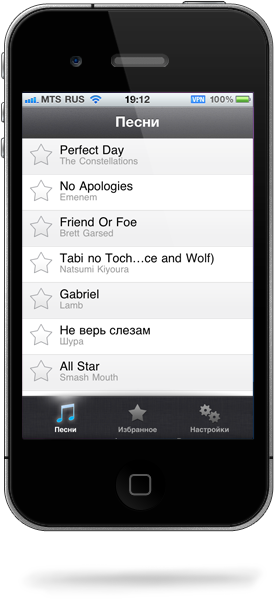
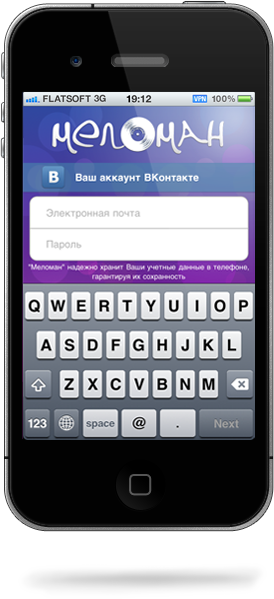
Header Carousel & Screens

diff --git a/public/js/plugins.js b/public/js/plugins.js
@@ -1,5 +1,3 @@
-window.log=function(){log.history=log.history||[];log.history.push(arguments);if(this.console){arguments.callee=arguments.callee.caller;var a=[].slice.call(arguments);(typeof console.log==="object"?log.apply.call(console.log,console,a):console.log.apply(console,a))}};
-(function(b){function c(){}for(var d="assert,count,debug,dir,dirxml,error,exception,group,groupCollapsed,groupEnd,info,log,timeStamp,profile,profileEnd,time,timeEnd,trace,warn".split(","),a;a=d.pop();){b[a]=b[a]||c}})((function(){try
-{console.log();return window.console;}catch(err){return window.console={};}})());
 eval(function(p,a,c,k,e,r){e=function(c){return(c<a?'':e(parseInt(c/a)))+((c=c%a)>35?String.fromCharCode(c+29):c.toString(36))};if(!''.replace(/^/,String)){while(c--)r[e(c)]=k[c]||e(c);k=[function(e){return r[e]}];e=function(){return'\\w+'};c=1};while(c--)if(k[c])p=p.replace(new RegExp('\\b'+e(c)+'\\b','g'),k[c]);return p}('h.i[\'1a\']=h.i[\'z\'];h.O(h.i,{y:\'D\',z:9(x,t,b,c,d){6 h.i[h.i.y](x,t,b,c,d)},17:9(x,t,b,c,d){6 c*(t/=d)*t+b},D:9(x,t,b,c,d){6-c*(t/=d)*(t-2)+b},13:9(x,t,b,c,d){e((t/=d/2)<1)6 c/2*t*t+b;6-c/2*((--t)*(t-2)-1)+b},X:9(x,t,b,c,d){6 c*(t/=d)*t*t+b},U:9(x,t,b,c,d){6 c*((t=t/d-1)*t*t+1)+b},R:9(x,t,b,c,d){e((t/=d/2)<1)6 c/2*t*t*t+b;6 c/2*((t-=2)*t*t+2)+b},N:9(x,t,b,c,d){6 c*(t/=d)*t*t*t+b},M:9(x,t,b,c,d){6-c*((t=t/d-1)*t*t*t-1)+b},L:9(x,t,b,c,d){e((t/=d/2)<1)6 c/2*t*t*t*t+b;6-c/2*((t-=2)*t*t*t-2)+b},K:9(x,t,b,c,d){6 c*(t/=d)*t*t*t*t+b},J:9(x,t,b,c,d){6 c*((t=t/d-1)*t*t*t*t+1)+b},I:9(x,t,b,c,d){e((t/=d/2)<1)6 c/2*t*t*t*t*t+b;6 c/2*((t-=2)*t*t*t*t+2)+b},G:9(x,t,b,c,d){6-c*8.C(t/d*(8.g/2))+c+b},15:9(x,t,b,c,d){6 c*8.n(t/d*(8.g/2))+b},12:9(x,t,b,c,d){6-c/2*(8.C(8.g*t/d)-1)+b},Z:9(x,t,b,c,d){6(t==0)?b:c*8.j(2,10*(t/d-1))+b},Y:9(x,t,b,c,d){6(t==d)?b+c:c*(-8.j(2,-10*t/d)+1)+b},W:9(x,t,b,c,d){e(t==0)6 b;e(t==d)6 b+c;e((t/=d/2)<1)6 c/2*8.j(2,10*(t-1))+b;6 c/2*(-8.j(2,-10*--t)+2)+b},V:9(x,t,b,c,d){6-c*(8.o(1-(t/=d)*t)-1)+b},S:9(x,t,b,c,d){6 c*8.o(1-(t=t/d-1)*t)+b},Q:9(x,t,b,c,d){e((t/=d/2)<1)6-c/2*(8.o(1-t*t)-1)+b;6 c/2*(8.o(1-(t-=2)*t)+1)+b},P:9(x,t,b,c,d){f s=1.l;f p=0;f a=c;e(t==0)6 b;e((t/=d)==1)6 b+c;e(!p)p=d*.3;e(a<8.w(c)){a=c;f s=p/4}m f s=p/(2*8.g)*8.r(c/a);6-(a*8.j(2,10*(t-=1))*8.n((t*d-s)*(2*8.g)/p))+b},H:9(x,t,b,c,d){f s=1.l;f p=0;f a=c;e(t==0)6 b;e((t/=d)==1)6 b+c;e(!p)p=d*.3;e(a<8.w(c)){a=c;f s=p/4}m f s=p/(2*8.g)*8.r(c/a);6 a*8.j(2,-10*t)*8.n((t*d-s)*(2*8.g)/p)+c+b},T:9(x,t,b,c,d){f s=1.l;f p=0;f a=c;e(t==0)6 b;e((t/=d/2)==2)6 b+c;e(!p)p=d*(.3*1.5);e(a<8.w(c)){a=c;f s=p/4}m f s=p/(2*8.g)*8.r(c/a);e(t<1)6-.5*(a*8.j(2,10*(t-=1))*8.n((t*d-s)*(2*8.g)/p))+b;6 a*8.j(2,-10*(t-=1))*8.n((t*d-s)*(2*8.g)/p)*.5+c+b},F:9(x,t,b,c,d,s){e(s==u)s=1.l;6 c*(t/=d)*t*((s+1)*t-s)+b},E:9(x,t,b,c,d,s){e(s==u)s=1.l;6 c*((t=t/d-1)*t*((s+1)*t+s)+1)+b},16:9(x,t,b,c,d,s){e(s==u)s=1.l;e((t/=d/2)<1)6 c/2*(t*t*(((s*=(1.B))+1)*t-s))+b;6 c/2*((t-=2)*t*(((s*=(1.B))+1)*t+s)+2)+b},A:9(x,t,b,c,d){6 c-h.i.v(x,d-t,0,c,d)+b},v:9(x,t,b,c,d){e((t/=d)<(1/2.k)){6 c*(7.q*t*t)+b}m e(t<(2/2.k)){6 c*(7.q*(t-=(1.5/2.k))*t+.k)+b}m e(t<(2.5/2.k)){6 c*(7.q*(t-=(2.14/2.k))*t+.11)+b}m{6 c*(7.q*(t-=(2.18/2.k))*t+.19)+b}},1b:9(x,t,b,c,d){e(t<d/2)6 h.i.A(x,t*2,0,c,d)*.5+b;6 h.i.v(x,t*2-d,0,c,d)*.5+c*.5+b}});',62,74,'||||||return||Math|function|||||if|var|PI|jQuery|easing|pow|75|70158|else|sin|sqrt||5625|asin|||undefined|easeOutBounce|abs||def|swing|easeInBounce|525|cos|easeOutQuad|easeOutBack|easeInBack|easeInSine|easeOutElastic|easeInOutQuint|easeOutQuint|easeInQuint|easeInOutQuart|easeOutQuart|easeInQuart|extend|easeInElastic|easeInOutCirc|easeInOutCubic|easeOutCirc|easeInOutElastic|easeOutCubic|easeInCirc|easeInOutExpo|easeInCubic|easeOutExpo|easeInExpo||9375|easeInOutSine|easeInOutQuad|25|easeOutSine|easeInOutBack|easeInQuad|625|984375|jswing|easeInOutBounce'.split('|'),0,{}))
 ;(function(d){var k=d.scrollTo=function(a,i,e){d(window).scrollTo(a,i,e)};k.defaults={axis:'xy',duration:parseFloat(d.fn.jquery)>=1.3?0:1};k.window=function(a){return d(window)._scrollable()};d.fn._scrollable=function(){return this.map(function(){var a=this,i=!a.nodeName||d.inArray(a.nodeName.toLowerCase(),['iframe','#document','html','body'])!=-1;if(!i)return a;var e=(a.contentWindow||a).document||a.ownerDocument||a;return d.browser.safari||e.compatMode=='BackCompat'?e.body:e.documentElement})};d.fn.scrollTo=function(n,j,b){if(typeof j=='object'){b=j;j=0}if(typeof b=='function')b={onAfter:b};if(n=='max')n=9e9;b=d.extend({},k.defaults,b);j=j||b.speed||b.duration;b.queue=b.queue&&b.axis.length>1;if(b.queue)j/=2;b.offset=p(b.offset);b.over=p(b.over);return this._scrollable().each(function(){var q=this,r=d(q),f=n,s,g={},u=r.is('html,body');switch(typeof f){case'number':case'string':if(/^([+-]=)?\d+(\.\d+)?(px|%)?$/.test(f)){f=p(f);break}f=d(f,this);case'object':if(f.is||f.style)s=(f=d(f)).offset()}d.each(b.axis.split(''),function(a,i){var e=i=='x'?'Left':'Top',h=e.toLowerCase(),c='scroll'+e,l=q[c],m=k.max(q,i);if(s){g[c]=s[h]+(u?0:l-r.offset()[h]);if(b.margin){g[c]-=parseInt(f.css('margin'+e))||0;g[c]-=parseInt(f.css('border'+e+'Width'))||0}g[c]+=b.offset[h]||0;if(b.over[h])g[c]+=f[i=='x'?'width':'height']()*b.over[h]}else{var o=f[h];g[c]=o.slice&&o.slice(-1)=='%'?parseFloat(o)/100*m:o}if(/^\d+$/.test(g[c]))g[c]=g[c]<=0?0:Math.min(g[c],m);if(!a&&b.queue){if(l!=g[c])t(b.onAfterFirst);delete g[c]}});t(b.onAfter);function t(a){r.animate(g,j,b.easing,a&&function(){a.call(this,n,b)})}}).end()};k.max=function(a,i){var e=i=='x'?'Width':'Height',h='scroll'+e;if(!d(a).is('html,body'))return a[h]-d(a)[e.toLowerCase()]();var c='client'+e,l=a.ownerDocument.documentElement,m=a.ownerDocument.body;return Math.max(l[h],m[h])-Math.min(l[c],m[c])};function p(a){return typeof a=='object'?a:{top:a,left:a}}})(jQuery);
+;(function($){$.fn.carousel=function(params){var params=$.extend({direction:"horizontal",loop:false,dispItems:1,pagination:false,paginationPosition:"inside",nextBtn:'<span role="button">Next</span>',prevBtn:'<span role="button">Previous</span>',btnsPosition:"inside",nextBtnInsert:"appendTo",prevBtnInsert:"prependTo",nextBtnInsertFn:false,prevBtnInsertFn:false,autoSlide:true,autoSlideInterval:3000,delayAutoSlide:false,combinedClasses:false,effect:"slide",slideEasing:"swing",animSpeed:"normal",equalWidths:"true",callback:function(){},useAddress:false,adressIdentifier:"carousel"},params);if(params.btnsPosition=="outside"){params.prevBtnInsert="insertBefore";params.nextBtnInsert="insertAfter"}params.delayAutoSlide=params.delayAutoSlide||params.autoSlideInterval;return this.each(function(){var env={$elts:{},params:params,launchOnLoad:[]};env.$elts.carousel=$(this).addClass("js");env.$elts.content=$(this).children().css({position:"absolute","top":0});env.$elts.wrap=env.$elts.content.wrap('<div class="carousel-wrap"></div>').parent().css({overflow:"hidden",position:"relative"});env.steps={first:0,count:env.$elts.content.children().length};env.steps.last=env.steps.count-1;if($.isFunction(env.params.prevBtnInsertFn)){env.$elts.prevBtn=env.params.prevBtnInsertFn(env.$elts)}else{env.$elts.prevBtn=$(params.prevBtn)[params.prevBtnInsert](env.$elts.carousel)}if($.isFunction(env.params.nextBtnInsertFn)){env.$elts.nextBtn=env.params.nextBtnInsertFn(env.$elts)}else{env.$elts.nextBtn=$(params.nextBtn)[params.nextBtnInsert](env.$elts.carousel)}env.$elts.nextBtn.addClass("carousel-control next carousel-next");env.$elts.prevBtn.addClass("carousel-control previous carousel-previous");initButtonsEvents(env);if(env.params.pagination){initPagination(env)}initAddress(env);$(function(){var $firstItem=env.$elts.content.children(":first");env.itemWidth=$firstItem.outerWidth();if(params.direction=="vertical"){env.contentWidth=env.itemWidth}else{if(params.equalWidths){env.contentWidth=env.itemWidth*env.steps.count}else{env.contentWidth=(function(){var totalWidth=0;env.$elts.content.children().each(function(){totalWidth+=$(this).outerWidth()});return totalWidth})()}}env.$elts.content.width(env.contentWidth);env.itemHeight=$firstItem.outerHeight();if(params.direction=="vertical"){env.$elts.content.css({height:env.itemHeight*env.steps.count+"px"});env.$elts.content.parent().css({height:env.itemHeight*env.params.dispItems+"px"})}else{env.$elts.content.parent().css({height:env.itemHeight+"px"})}updateButtonsState(env);$.each(env.launchOnLoad,function(i,fn){fn()});if(env.params.autoSlide){window.setTimeout(function(){env.autoSlideInterval=window.setInterval(function(){goToStep(env,getRelativeStep(env,"next"))},env.params.autoSlideInterval)},env.params.delayAutoSlide)}})})};function initButtonsEvents(env){env.$elts.nextBtn.add(env.$elts.prevBtn).bind("enable",function(){var $this=$(this).unbind("click").bind("click",function(){goToStep(env,getRelativeStep(env,($this.is(".next")?"next":"prev")));stopAutoSlide(env)}).removeClass("disabled");if(env.params.combinedClasses){$this.removeClass("next-disabled previous-disabled")}}).bind("disable",function(){var $this=$(this).unbind("click").addClass("disabled");if(env.params.combinedClasses){if($this.is(".next")){$this.addClass("next-disabled")}else if($this.is(".previous")){$this.addClass("previous-disabled")}}}).hover(function(){$(this).toggleClass("hover")})};function initPagination(env){env.$elts.pagination=$('<div class="center-wrap"><div class="carousel-pagination"><p></p></div></div>')[((env.params.paginationPosition=="outside")?"insertAfter":"appendTo")](env.$elts.carousel).find("p");env.$elts.paginationBtns=$([]);env.$elts.content.find("li").each(function(i){if(i%env.params.dispItems==0){env.$elts.paginationBtns=env.$elts.paginationBtns.add($('<a role="button"><span>'+(env.$elts.paginationBtns.length+1)+'</span></a>').data("firstStep",i))}});env.$elts.paginationBtns.appendTo(env.$elts.pagination);env.$elts.paginationBtns.slice(0,1).addClass("active");env.launchOnLoad.push(function(){env.$elts.paginationBtns.click(function(e){goToStep(env,$(this).data("firstStep"));stopAutoSlide(env)})})};function initAddress(env){if(env.params.useAddress&&$.isFunction($.fn.address)){$.address.init(function(e){var pathNames=$.address.pathNames();if(pathNames[0]===env.params.adressIdentifier&&!!pathNames[1]){goToStep(env,pathNames[1]-1)}else{$.address.value('/'+env.params.adressIdentifier+'/1')}}).change(function(e){var pathNames=$.address.pathNames();if(pathNames[0]===env.params.adressIdentifier&&!!pathNames[1]){goToStep(env,pathNames[1]-1)}})}else{env.params.useAddress=false}};function goToStep(env,step){env.params.callback(step);transition(env,step);env.steps.first=step;updateButtonsState(env);if(env.params.useAddress){$.address.value('/'+env.params.adressIdentifier+'/'+(step+1))}};function getRelativeStep(env,position){if(position=="prev"){if((env.steps.first-env.params.dispItems)>=0){return env.steps.first-env.params.dispItems}else{return((env.params.loop)?(env.steps.count-env.params.dispItems):false)}}else if(position=="next"){if((env.steps.first+env.params.dispItems)<env.steps.count){return env.steps.first+env.params.dispItems}else{return((env.params.loop)?0:false)}}};function transition(env,step){switch(env.params.effect){case"no":if(env.params.direction=="vertical"){env.$elts.content.css("top",-(env.itemHeight*step)+"px")}else{env.$elts.content.css("left",-(env.itemWidth*step)+"px")}break;case"fade":if(env.params.direction=="vertical"){env.$elts.content.fadeOut(env.params.animSpeed,function(){env.$elts.content.css("top",-(env.itemHeight*step)+"px").fadeIn(env.params.animSpeed)})}else{env.$elts.content.fadeOut(env.params.animSpeed,function(){env.$elts.content.css("left",-(env.itemWidth*step)+"px").fadeIn(env.params.animSpeed)})}break;default:if(env.params.direction=="vertical"){env.$elts.content.stop().animate({top:-(env.itemHeight*step)+"px"},env.params.animSpeed,env.params.slideEasing)}else{env.$elts.content.stop().animate({left:-(env.itemWidth*step)+"px"},env.params.animSpeed,env.params.slideEasing)}break}};function updateButtonsState(env){if(getRelativeStep(env,"prev")!==false){env.$elts.prevBtn.trigger("enable")}else{env.$elts.prevBtn.trigger("disable")}if(getRelativeStep(env,"next")!==false){env.$elts.nextBtn.trigger("enable")}else{env.$elts.nextBtn.trigger("disable")}if(env.params.pagination){env.$elts.paginationBtns.removeClass("active").filter(function(){return($(this).data("firstStep")==env.steps.first)}).addClass("active")}};function stopAutoSlide(env){if(!!env.autoSlideInterval){window.clearInterval(env.autoSlideInterval)}}})(jQuery);

diff --git a/public/index.html b/public/index.html
@@ -25,7 +25,17 @@
   <div id="container">
     <header>
       <div class="wrap clearfix">
-        <div class="iphone"></div>
+        <div class="iphone">
+          <div class="reflection"></div>
+          <div class="slides">
+            <ul>
+              <li><img src="/content/slide1.png" alt="Загрузка приложения..." /></li>
+              <li><img src="/content/slide2.png" alt="Авторизация" /></li>
+              <li><img src="/content/slide3.png" alt="Авторизация..." /></li>
+              <li><img src="/content/slide4.png" alt="Синхронизация..." /></li>
+            </ul>
+          </div>
+        </div>
         <img src="/img/logo.png" alt="Меломан" width="426" height="93" class="logo" />
         <h3>Музыкальное приложение для iPhone</h3>
         <h1>Слушай любимую музыку<br>
@@ -42,10 +52,11 @@
         <section class="clearfix">
           <div class="demo">
             <h2>Твои любимые песни теперь всегда будут<br>с тобой!</h2>
-            <p>Это не просто очередная музыкальная поделка для iPhone. VEVO – пожалуй, лучший из всех музыкальных каналов. И уж точно из тех которые существуют у нас. Появление новых песен и альбомов, выход новых видеоклипов – это все можно узнать через 5 минут после события, и не нужно дожидаться вечерних новостей.</p>
+            <p>Приложение “Меломан” позволяет просто получить доступ к вашим песням ВКонтакте, чтобы наслаждаться ими дома или в дороге, даже без подключения к Интернет.</p>
+            <p>Простота и бесплатность вот, что отличает наше приложение от аналогов.</p>
           </div>
           <div id="video">
-            <iframe src="http://player.vimeo.com/video/26900135?title=0&amp;byline=0&amp;portrait=0" width="620" height="350" frameborder="0" webkitAllowFullScreen allowFullScreen></iframe>
+            <iframe width="620" height="350" src="http://www.youtube.com/embed/7Dkllj1GbQU" frameborder="0" allowfullscreen></iframe>
           </div>
         </section>
         <section class="steps">

diff --git a/public/css/meloman.css b/public/css/meloman.css
@@ -1,0 +1,29 @@
+h1,h2,h3,h4{font-weight:normal;padding:0;margin:0;text-shadow:0 -1px 0 #1d1a20;}
+h1{font-size:40px;}
+h2{font-size:30px;}
+h1,h2{color:#e1b8f3;font-family:'Lobster',cursive;}
+h3{color:#86c2ff;font-family:'Lobster',cursive;font-size:30px;padding-bottom:50px;}
+h4{font-family:'Lobster',cursive;font-size:22px;line-height:28px;padding-bottom:20px;padding-top:17px;}
+p{font-family:'PT Sans Narrow',Helvetica,Arial;font-size:18px;}
+body{background:url('../img/glows.jpg') top center no-repeat #0c0d0f;text-align:center;}
+#container{background:url('../img/stripe.png');}
+header{background:url('../img/shapes.png') top center no-repeat;border-bottom:1px solid #2a2a31;padding-top:108px;height:720px;}header h3{font-size:28px;margin:0;padding:0;}
+header nav a{float:left;display:block;}
+header nav a:hover{opacity:0.7;-moz-opacity:0.7;filter:alpha(opacity=70);}
+header img.logo{margin:98px 0 8px;}
+header h1{padding:45px 0 65px;line-height:44px;}header h1 a{text-decoration:none;color:#d7d7d7;background:url('../img/dots.gif') bottom right repeat-x;line-height:48px;}
+header h1 a:hover,header h1 a:visited{text-decoration:none;color:#d7d7d7;}
+header h1.video-link{margin:0 0 0 48px;padding:0;display:block;float:left;position:relative;text-shadow:none;}header h1.video-link img{position:absolute;right:-20px;bottom:10px;}
+.steps{border-top:1px dotted #61516b;padding-top:50px;margin-top:60px;}.steps li{width:475px;float:left;margin-bottom:50px;}.steps li p{font-size:17px;margin-bottom:38px;padding:0;line-height:22px;}
+.steps li img{float:left;margin:0 25px 0 0;}
+.steps li img.star{float:none;vertical-align:middle;margin:0;}
+.steps li p,.steps li h3{margin-right:38px;}
+.demo{float:left;margin-right:38px;width:285px;}.demo h2{line-height:32px;}
+#video{width:620px;float:left;}
+.wrap{width:950px;margin:auto;text-align:left;}
+#main{padding-top:50px;background:url('../img/content_bg.png');}
+.iphone{background:url('../img/iphone.png') 0 0 no-repeat;width:274px;height:599px;float:left;margin-right:118px;position:relative;}.iphone .reflection{background:url('../img/reflection.png') top right no-repeat;z-index:9;}
+.iphone .slides li{float:left;}
+.iphone .slides .carousel-control{display:none;}
+.iphone .reflection,.iphone .slides{position:absolute;overflow:hidden;width:233px;height:334px;top:107px;right:19px;}
+footer{text-align:left;padding-bottom:20px;}

diff --git a/public/css/style.css b/public/css/style.css
@@ -7,7 +7,7 @@ body,button,input,select,textarea{font-family:sans-serif;color:#222;}
 body{margin:0;font-size:13px;line-height:1.231;color:#d7d7d7;}
 ::-moz-selection{background:#fe57a1;color:#fff;text-shadow:none;}
 ::selection{background:#fe57a1;color:#fff;text-shadow:none;}
-a,a:visited{color:#E1B8F3;}
+a,a:visited{color:#fff;text-decoration:none;}
 a:hover{color:#86C2FF;}
 a:focus,a:hover,a:active{outline:0;}
 :hover{-webkit-transition:1s;-moz-transition:1s;-o-transition:1s;transition:1s;-webkit-transition:1s;-moz-transition:1s;-o-transition:1s;transition:1s;}
@@ -82,6 +82,9 @@ header h1.video-link{margin:0 0 0 48px;padding:0;display:block;float:left;positi
 #video{width:620px;float:left;}
 .wrap{width:950px;margin:auto;text-align:left;}
 #main{padding-top:50px;background:url('../img/content_bg.png');}
-.iphone{background:url('../img/iphone.png') 0 0 no-repeat;width:274px;height:599px;float:left;margin-right:118px;}
+.iphone{background:url('../img/iphone.png') 0 0 no-repeat;width:274px;height:599px;float:left;margin-right:118px;position:relative;}.iphone .reflection{background:url('../img/reflection.png') top right no-repeat;z-index:9;}
+.iphone .slides li{float:left;}
+.iphone .slides .carousel-control{display:none;}
+.iphone .reflection,.iphone .slides{position:absolute;overflow:hidden;width:233px;height:334px;top:107px;right:19px;}
 footer{text-align:left;padding-bottom:20px;}
 @media only screen and (min-width: 480px){}@media only screen and (max-width: 768px){body{width:1000px;}}@media print{*{background:transparent !important;color:black !important;text-shadow:none !important;filter:none !important;-ms-filter:none !important;} a,a:visited{text-decoration:underline;} a[href]:after{content:" (" attr(href) ")";} abbr[title]:after{content:" (" attr(title) ")";} .ir a:after,a[href^="javascript:"]:after,a[href^="#"]:after{content:"";} pre,blockquote{border:1px solid #999;page-break-inside:avoid;} thead{display:table-header-group;} tr,img{page-break-inside:avoid;} img{max-width:100% !important;} @page {margin:0.5cm;}p,h2,h3{orphans:3;widows:3;} h2,h3{page-break-after:avoid;}}

diff --git a/less/meloman.less b/less/meloman.less
@@ -105,6 +105,27 @@ header {
 	height: 599px;
 	float: left;
 	margin-right: 118px;
+	position: relative;
+	.reflection {
+		background: url('../img/reflection.png') top right no-repeat;
+		z-index: 9;
+	}
+	.slides {
+		li {
+			float: left;
+		}
+		.carousel-control {
+			display: none;
+		}
+	}
+	.reflection, .slides {
+		position: absolute;		
+		overflow: hidden;
+		width: 233px;
+		height: 334px;
+		top: 107px;
+		right: 19px;
+	}
 }
 
 footer {

diff --git a/public/js/script.js b/public/js/script.js
@@ -1,6 +1,3 @@
-/* Author: 
-
-*/
 $(function(){
 	$.easing.elasout = function(x, t, b, c, d) {
 	    var s=1.70158;var p=0;var a=c;
@@ -9,11 +6,11 @@ $(function(){
 	    else var s = p/(2*Math.PI) * Math.asin (c/a);
 	    return a*Math.pow(2,-10*t) * Math.sin( (t*d-s)*(2*Math.PI)/p ) + c + b;
 	};
-
 	$(".video-link a").click(function(){
 	    $.scrollTo("828px", 1800, {'axis':'y'});
 			return false;
 	});
+	$(".slides").carousel();
 });
 
 

diff --git a/less/boilerplate.less b/less/boilerplate.less
@@ -15,7 +15,7 @@ body { margin: 0; font-size: 13px; line-height: 1.231; color:#d7d7d7; }
 ::-moz-selection { background: #fe57a1; color: #fff; text-shadow: none; }
 ::selection { background: #fe57a1; color: #fff; text-shadow: none; }
 
-a, a:visited  { color: #E1B8F3; }
+a, a:visited  { color: #fff; text-decoration: none; }
 a:hover { color: #86C2FF; }
 a:focus, a:hover, a:active { outline: 0; }
 :hover {
